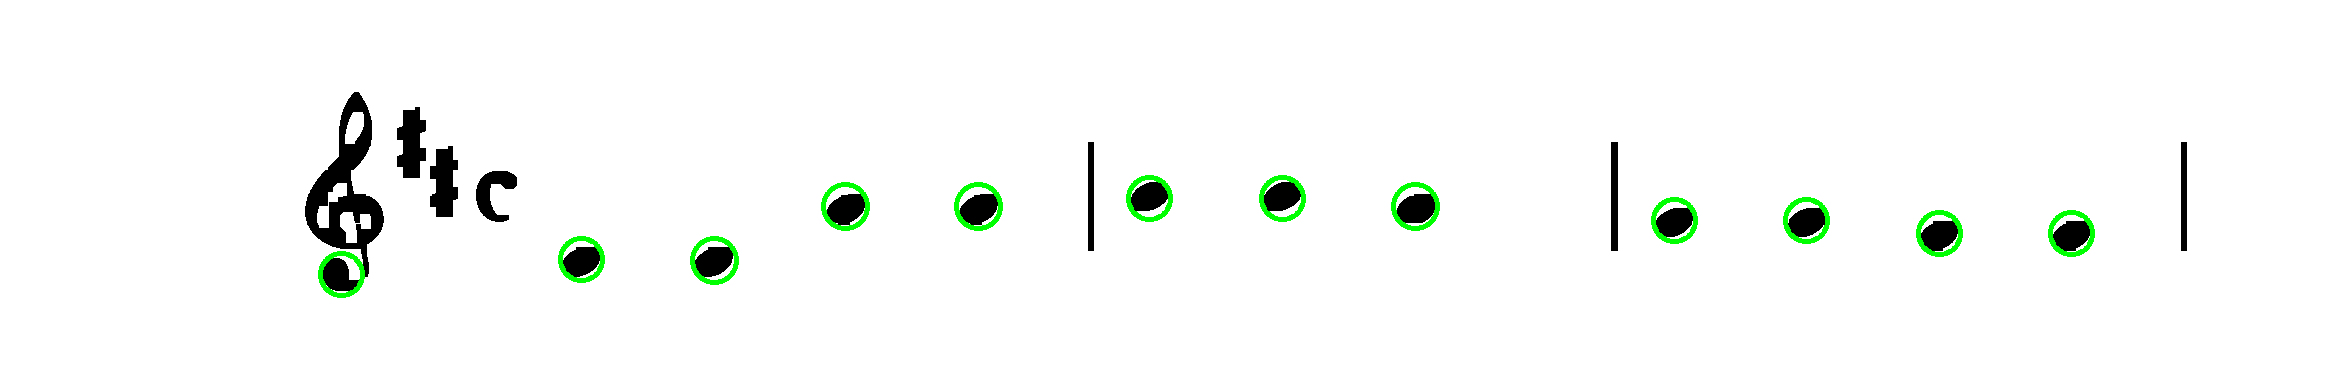
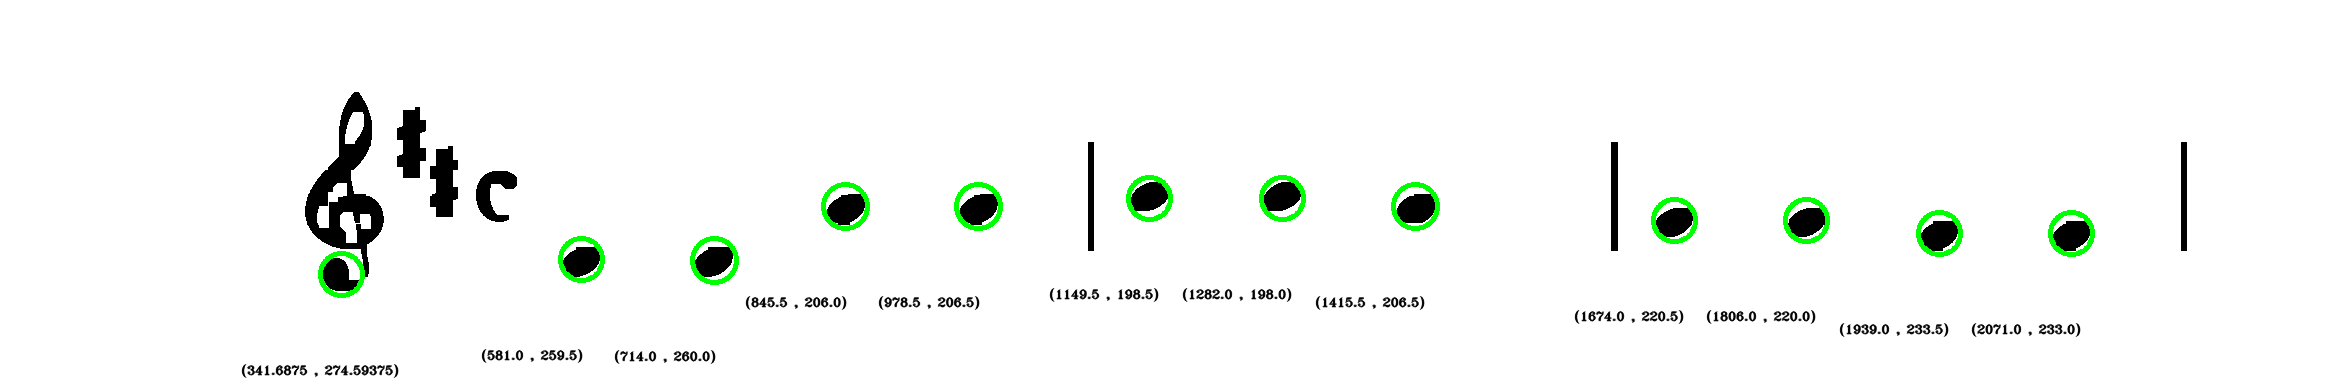
feat: debug position elements

diff --git a/src/scorereader/Utilities.java b/src/scorereader/Utilities.java
@@ -21,6 +21,8 @@ import static org.bytedeco.javacpp.helper.opencv_core.CV_RGB;
 import static org.bytedeco.javacpp.helper.opencv_imgcodecs.cvLoadImage;
 import static org.bytedeco.javacpp.helper.opencv_imgcodecs.cvSaveImage;
 import org.bytedeco.javacpp.opencv_core;
+import org.bytedeco.javacpp.opencv_core.Point;
+import org.bytedeco.javacpp.opencv_imgproc;
 import static org.bytedeco.javacpp.opencv_imgproc.CV_ADAPTIVE_THRESH_MEAN_C;
 import static org.bytedeco.javacpp.opencv_imgproc.CV_CHAIN_APPROX_NONE;
 import static org.bytedeco.javacpp.opencv_imgproc.CV_RETR_CCOMP;
@@ -33,6 +35,9 @@ import static org.bytedeco.javacpp.opencv_imgproc.cvRectangleR;
 import static org.bytedeco.javacpp.opencv_imgproc.cvThreshold;
 import org.bytedeco.javacv.Java2DFrameConverter;
 import org.bytedeco.javacv.OpenCVFrameConverter;
+import org.opencv.core.Core;
+import org.opencv.core.Scalar;
+import org.opencv.imgproc.Imgproc;
 import static scorereader.image.Prototipo.CV_LOAD_IMAGE_ANYCOLOR;
 import scorereader.server.Server;
 import scorereader.structure.Crop;
@@ -71,6 +76,17 @@ public class Utilities {
                 bb.width(bb.width() + 10);
                 bb.height(bb.height() + 10);
                 cvRectangleR(imagemBB, bb, CV_RGB(0, 255, 0), 1, 8, 0);
+                // Adding Text
+
+                opencv_core.CvScalar c = CV_RGB(0, 0, 0);
+                opencv_imgproc.cvPutText(
+                        imagemBB, // Matrix obj of the image
+                        "(" + bb.x() + " , " + bb.y() + ")", // Text to be added
+                        new opencv_core.CvPoint(bb.x(), bb.y() - 25), // point
+                        opencv_imgproc.cvFont(1), // front face
+                        c // Scalar object for color
+                );
+
             }
         }
         return imagemBB;
@@ -195,15 +211,18 @@ public class Utilities {
             cvSaveImage(DIR_DEBUG + "bounded.png", new opencv_core.IplImage(bounded));
         }
 
-        ArrayList<Crop> cropElements = cropElements(imagemCinza, imageCopy);
+        if (DEBUG) {
+            ArrayList<Crop> cropElements = cropElements(imagemCinza, imageCopy);
 
-        for (Crop crop : cropElements) {
-            BufferedImage image = IplImageToBufferedImage(crop.getImage());
-            byte[] data = bufferedImageToByteArray(image);
-            String base64Image = Base64.getEncoder().encodeToString(data);
+            for (Crop crop : cropElements) {
+                BufferedImage image = IplImageToBufferedImage(crop.getImage());
+                byte[] data = bufferedImageToByteArray(image);
+                String base64Image = Base64.getEncoder().encodeToString(data);
 
-            elementos.add(new Figura(crop.x, crop.y, crop.h, crop.w, data, base64Image, "undefined-yet"));
+                elementos.add(new Figura(crop.x, crop.y, crop.h, crop.w, data, base64Image, "undefined-yet"));
+            }
         }
+
         return elementos;
     }
 

diff --git a/Server/server.py b/Server/server.py
@@ -72,9 +72,9 @@ class Server(object):
           for index, y in enumerate(pauta.yposlist):
               print "    %d. line at y-position:" % (index+1), y
 
+    imageEncoded = self.encodeImageStr(ms.image)
     ms.image.image_save(self.DIR + 'staffless.png', 'PNG')
 
-    imageEncoded = self.encodeImageStr(ms.image)
     if self.debug:
         print(imageEncoded)
 
@@ -88,12 +88,20 @@ class Server(object):
     ms = musicstaves_rl_simple.MusicStaves_rl_simple(gameraImage)
     ms.remove_staves(crossing_symbols='bars', num_lines=5)
     pautas = ms.get_staffpos()
+
+
+    cv2.imwrite(self.DIR + 'posicaoLinhas.png', self.convertToCvImage(imageEncoded))
+    img = cv2.imread(self.DIR + 'posicaoLinhas.png')
+
     for pauta in pautas:
       linhas = []
       for index, y in enumerate(pauta.yposlist):
         linhas.append({"linha": {"index": (index + 1), "y": y}})
+        cv2.putText(img, "y(" + str(y) +")", (520, int(y)), cv2.FONT_HERSHEY_TRIPLEX,0.4, (0, 0, 255), 1, cv2.LINE_AA)
 
       retorno.append({"pauta": {"index": pauta.staffno, "linhas":linhas, "yposlist": pauta.yposlist}})
+
+    cv2.imwrite(self.DIR + 'posicaoLinhas.png', img)
 
     return json.dumps(retorno)
 

diff --git a/Server/identificadornotas.py b/Server/identificadornotas.py
@@ -46,6 +46,11 @@ class IdentificaNotas(object):
             #Elimina partes que nao estao dentro dos padroes
             if r >= 20 and r <= 24:
                 cv2.circle(image, center, r, (0, 255, 0), 3)
+                if self.debugMode:
+                  #pinta coordenadas
+                  #cv2.putText(image, "(" + str(x) + ","+ str(y) + ")", (int(x), int(y)), cv2.FONT_HERSHEY_SIMPLEX, 1, 5)
+                  cv2.putText(image, "(" + str(x) + " , "+ str(y) + ")", (int(x) - 100, int(y + 100)), cv2.FONT_HERSHEY_TRIPLEX, 0.4, (255, 0, 0), 1, cv2.LINE_AA)
+
                 figuras.append({"ponto": {"index": index, "x": x, "y":y, "center": center, "raio": r}})
 
             index = index + 1

diff --git a/src/scorereader/ScoreReader.java b/src/scorereader/ScoreReader.java
@@ -81,7 +81,7 @@ public class ScoreReader {
                 }
             }
 
-            //Compilar os elementos
+//            //Compilar os elementos
             Parser parser = new Parser();
             String[] scoreDir = parser.compile(processados);
 
